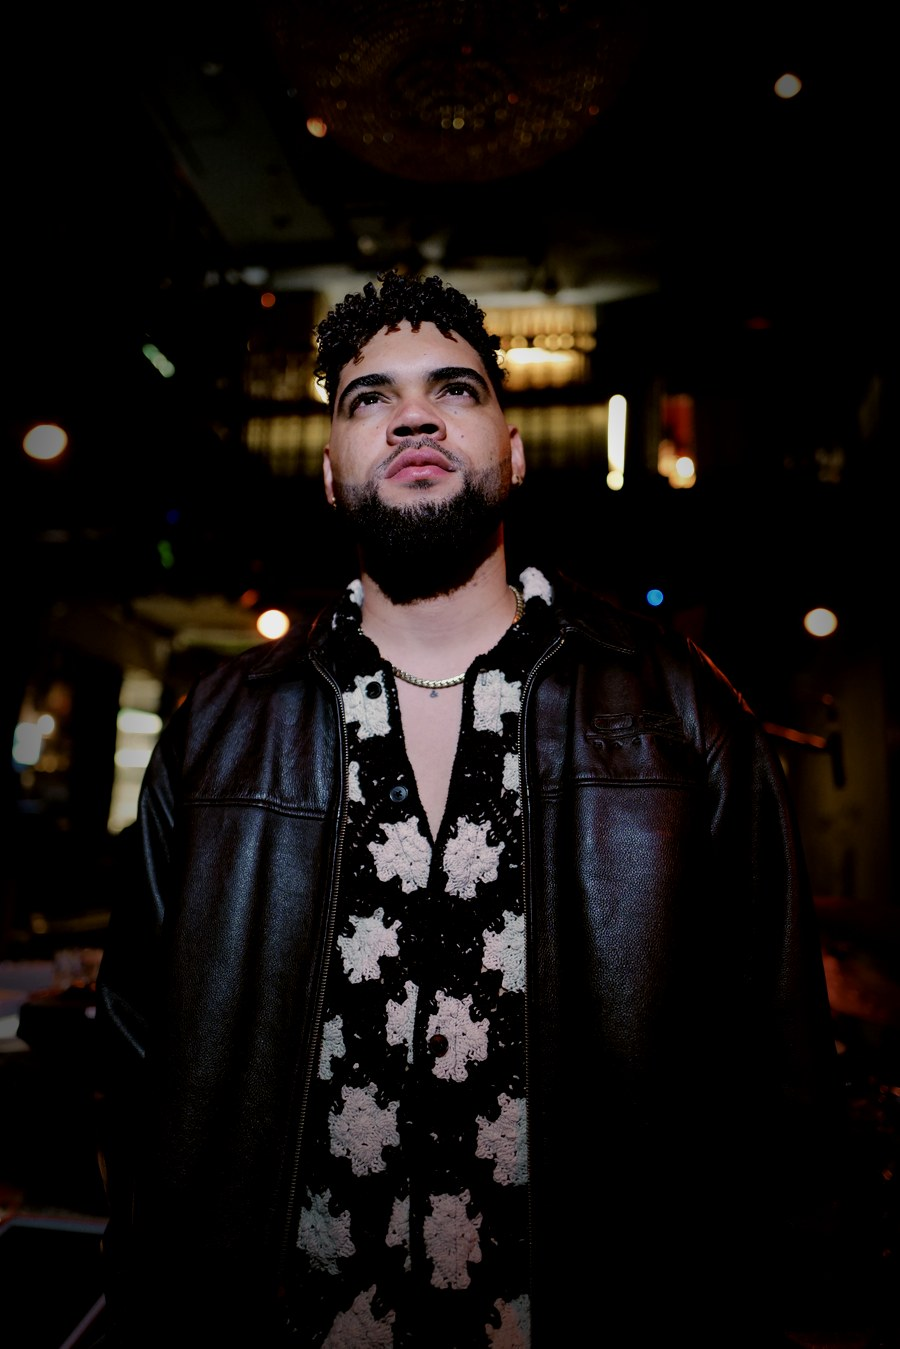
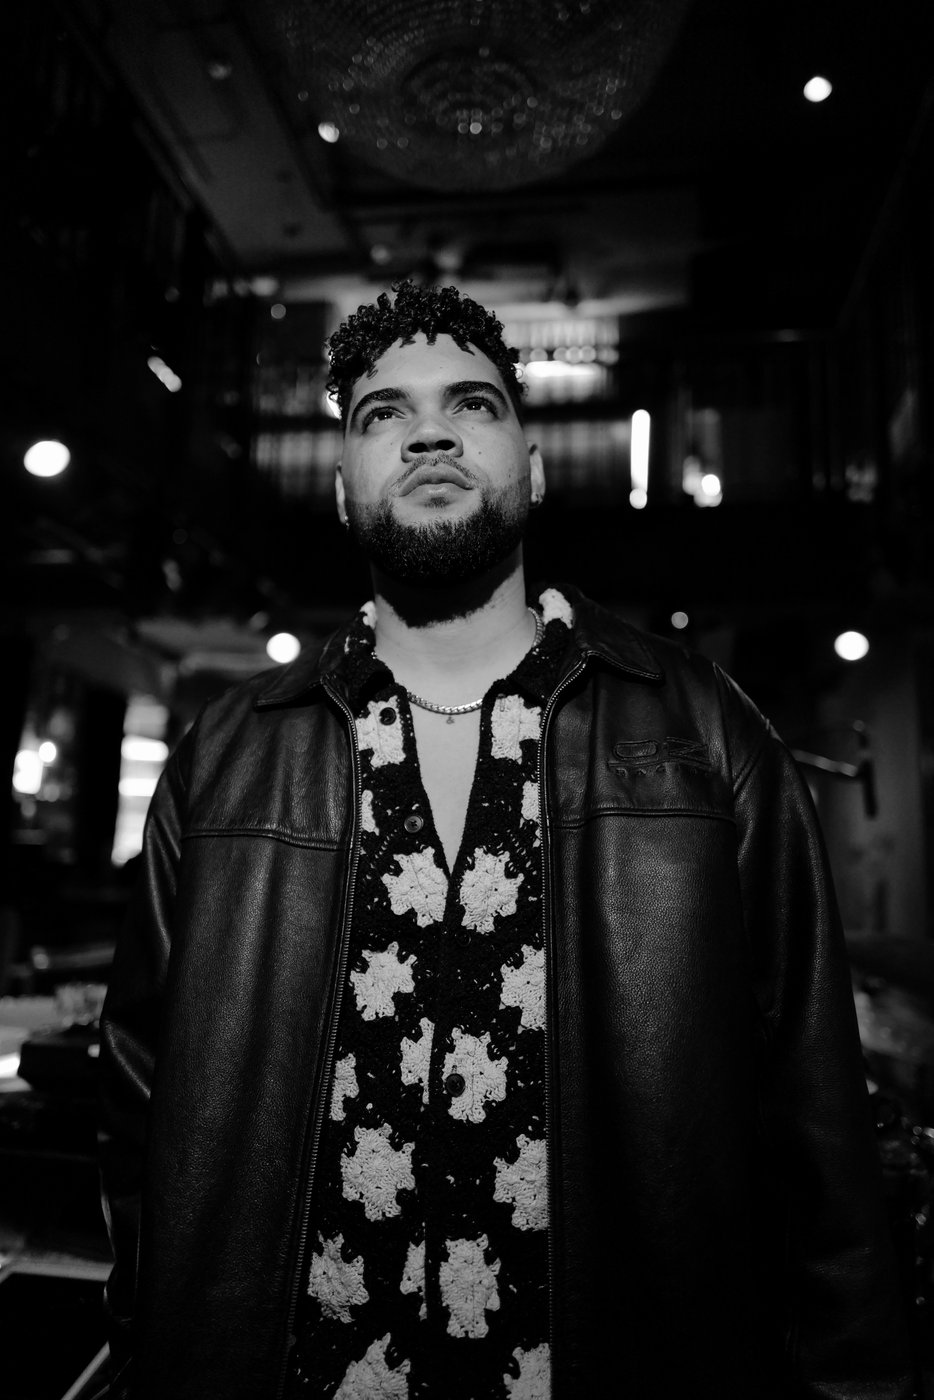
Update Karma Trio musician portraits with new black-and-white photos
Replace the three "Three Worlds. One Sound." portraits and adjust
objectPosition crops for the new images.

diff --git a/src/pages/karma.js b/src/pages/karma.js
@@ -81,14 +81,14 @@ const PROGRAMME = [
 
 const MUSICIANS = [
   {
-    img:'/images/karma/aniel-someillan.jpg', objectPosition:'center 25%',
+    img:'/images/karma/aniel-someillan.jpg', objectPosition:'65% 40%',
     instrument:'DOUBLE BASS', name:'Aniel Someillan', origin:'CUBA · POLAND',
     bio:"Cuban-born double bassist and composer based in Warsaw. A graduate of the Amadeo Roldán Music Conservatory in Havana, Someillan has built an international career at the crossroads of Afro-Cuban jazz, son cubano and contemporary improvised music.",
     bio2:"MJAF laureate at the 41st Festival Internacional Jazz Plaza, Havana 2026 — performing alongside Rodney Barreto, Yilian Cañizares, Harold López Nussa and Héctor Quintana. Winner, Jazz Junior Competition 2022. Montreux Jazz Academy 2023. Stage credits include Giovanni Hidalgo, Daymé Arocena, Shabaka Hutchings, Amaro Freitas, Shai Maestro and Roberto Carcassés.",
     badges:['JAZZ PLAZA 2026','MONTREUX 2023','JAZZ JUNIOR 2022'],
   },
   {
-    img:'/images/karma/shahar-elatan.jpg', objectPosition:'center 15%',
+    img:'/images/karma/shahar-elatan.jpg', objectPosition:'53% 22%',
     instrument:'GUITAR', name:'Shahar Elatan', origin:'ISRAEL · INTERNATIONAL',
     bio:"Born in Jerusalem in 1993 into a family of musicians, Shahar Elatan began his guitar studies at the age of six under his father, guitarist Zohar Elnatan. At seventeen, he moved to New York to study under masters including Peter Bernstein, Lage Lund, Gilad Hekselman and Ari Hoenig.",
     bio2:"A laureate of the Israeli-American Cultural Foundation and winner of the Rimon School Jazz Competition, Elatan has performed at the IASJ conference in Graz and released his debut album One World (Razdaz Recordz, 2016) — co-produced with bassist Avishai Cohen. Active across New York, Berlin and Tel Aviv, his playing bridges jazz tradition with Mediterranean lyricism and world music colour.",
